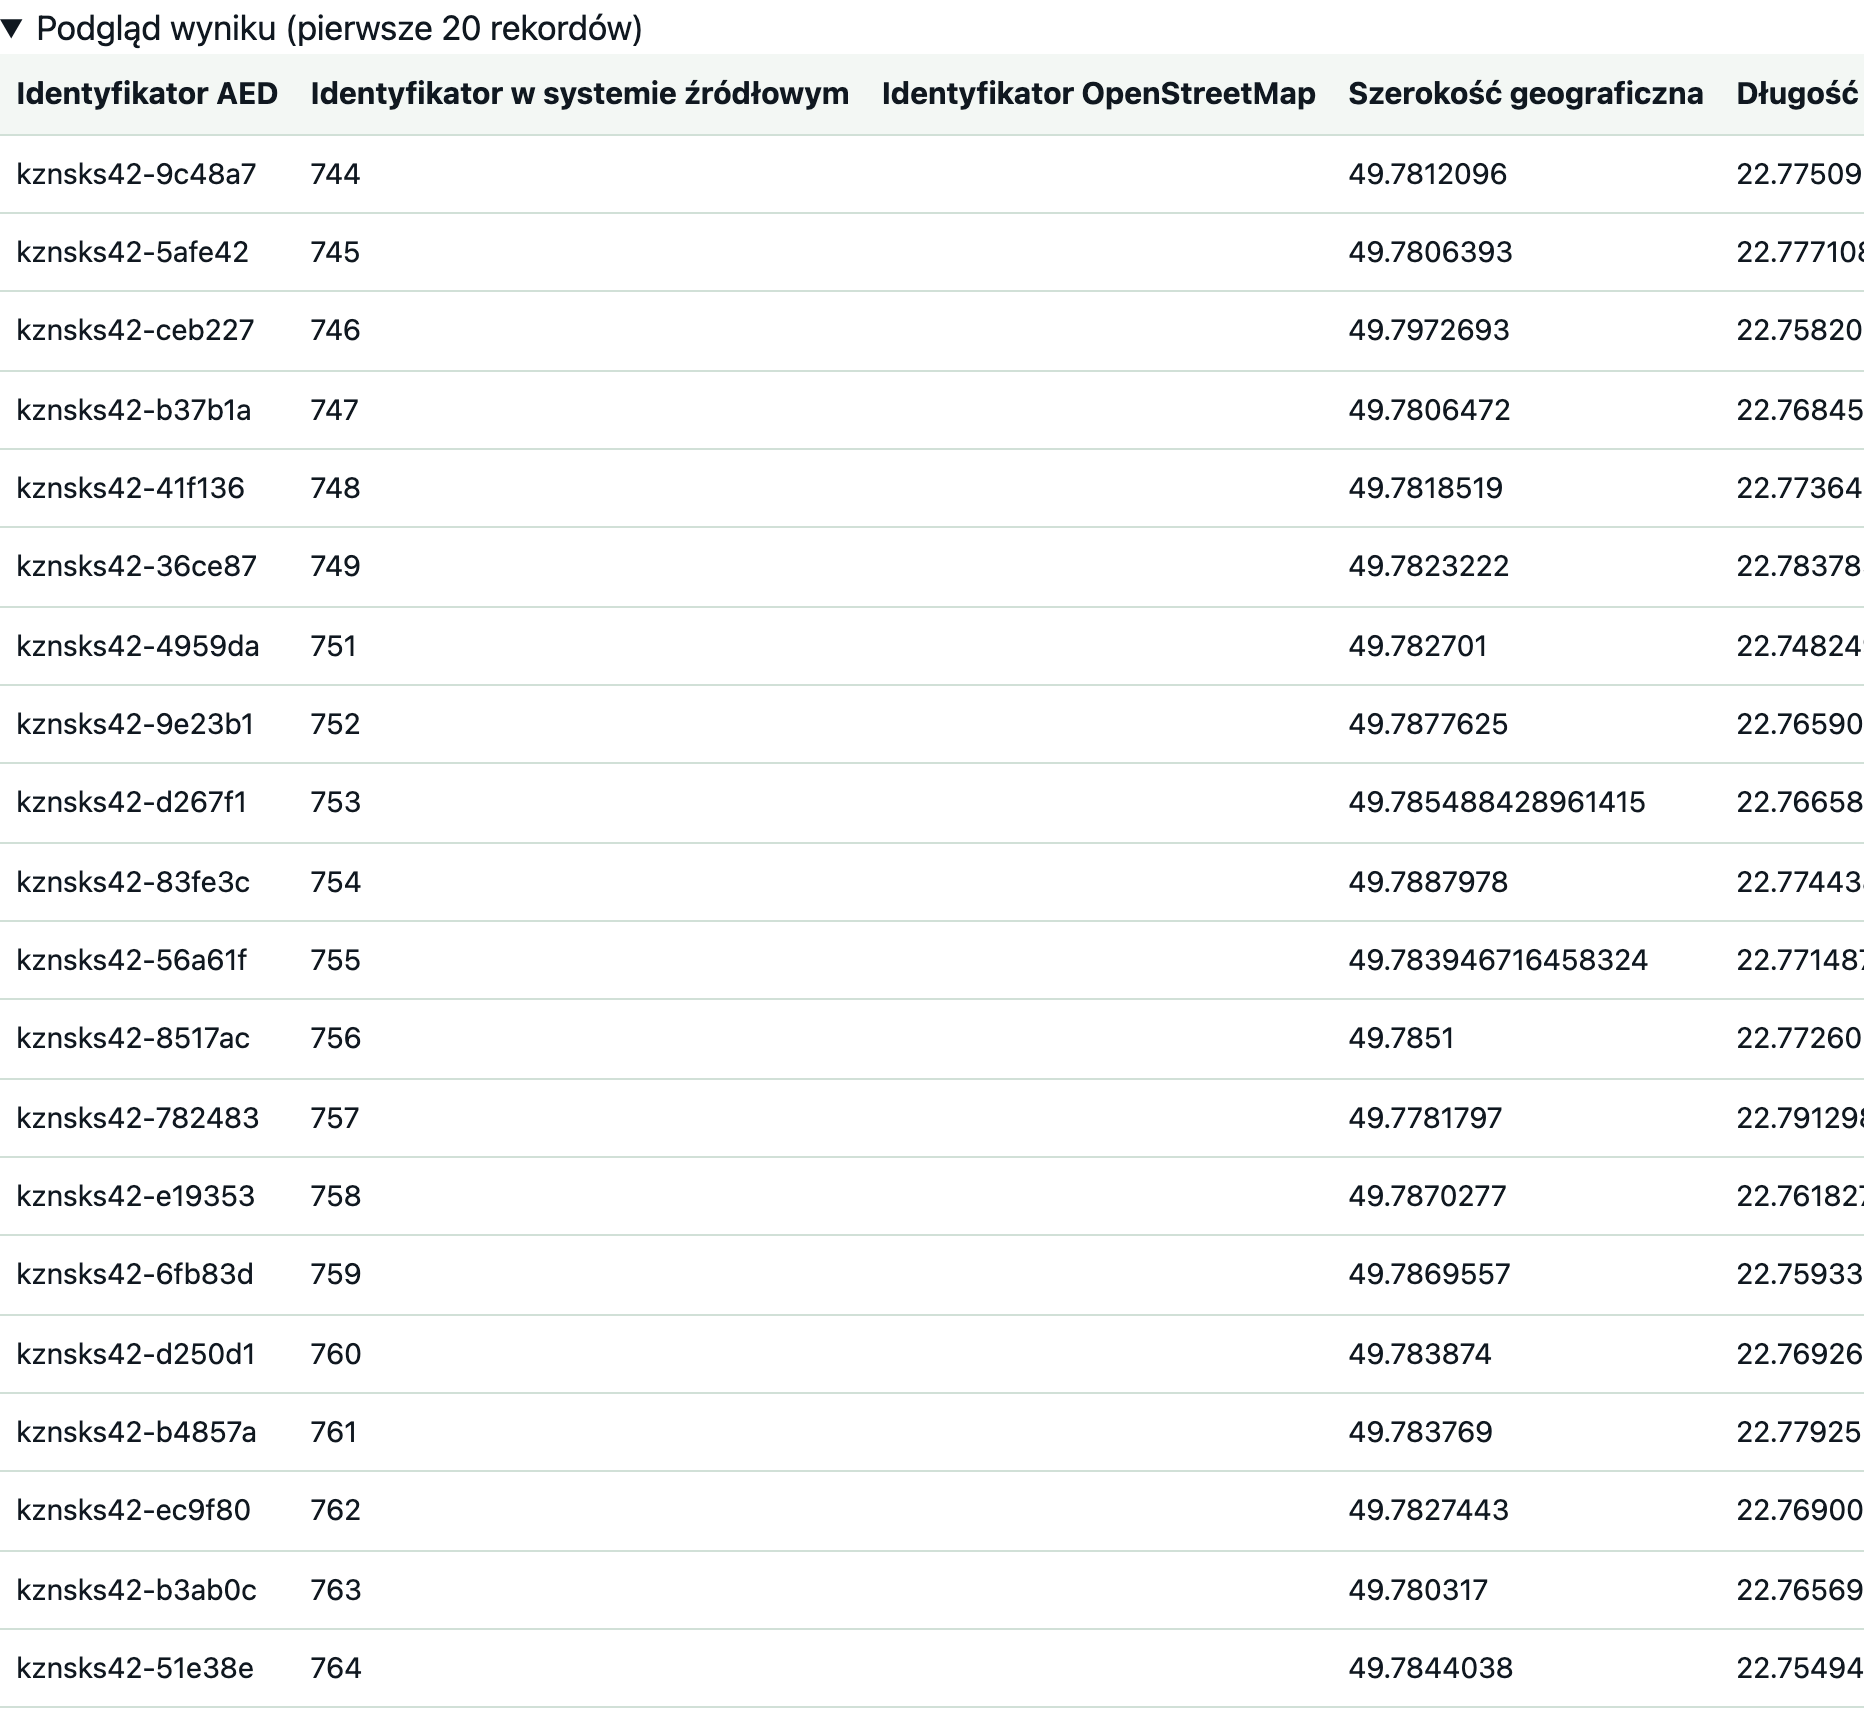
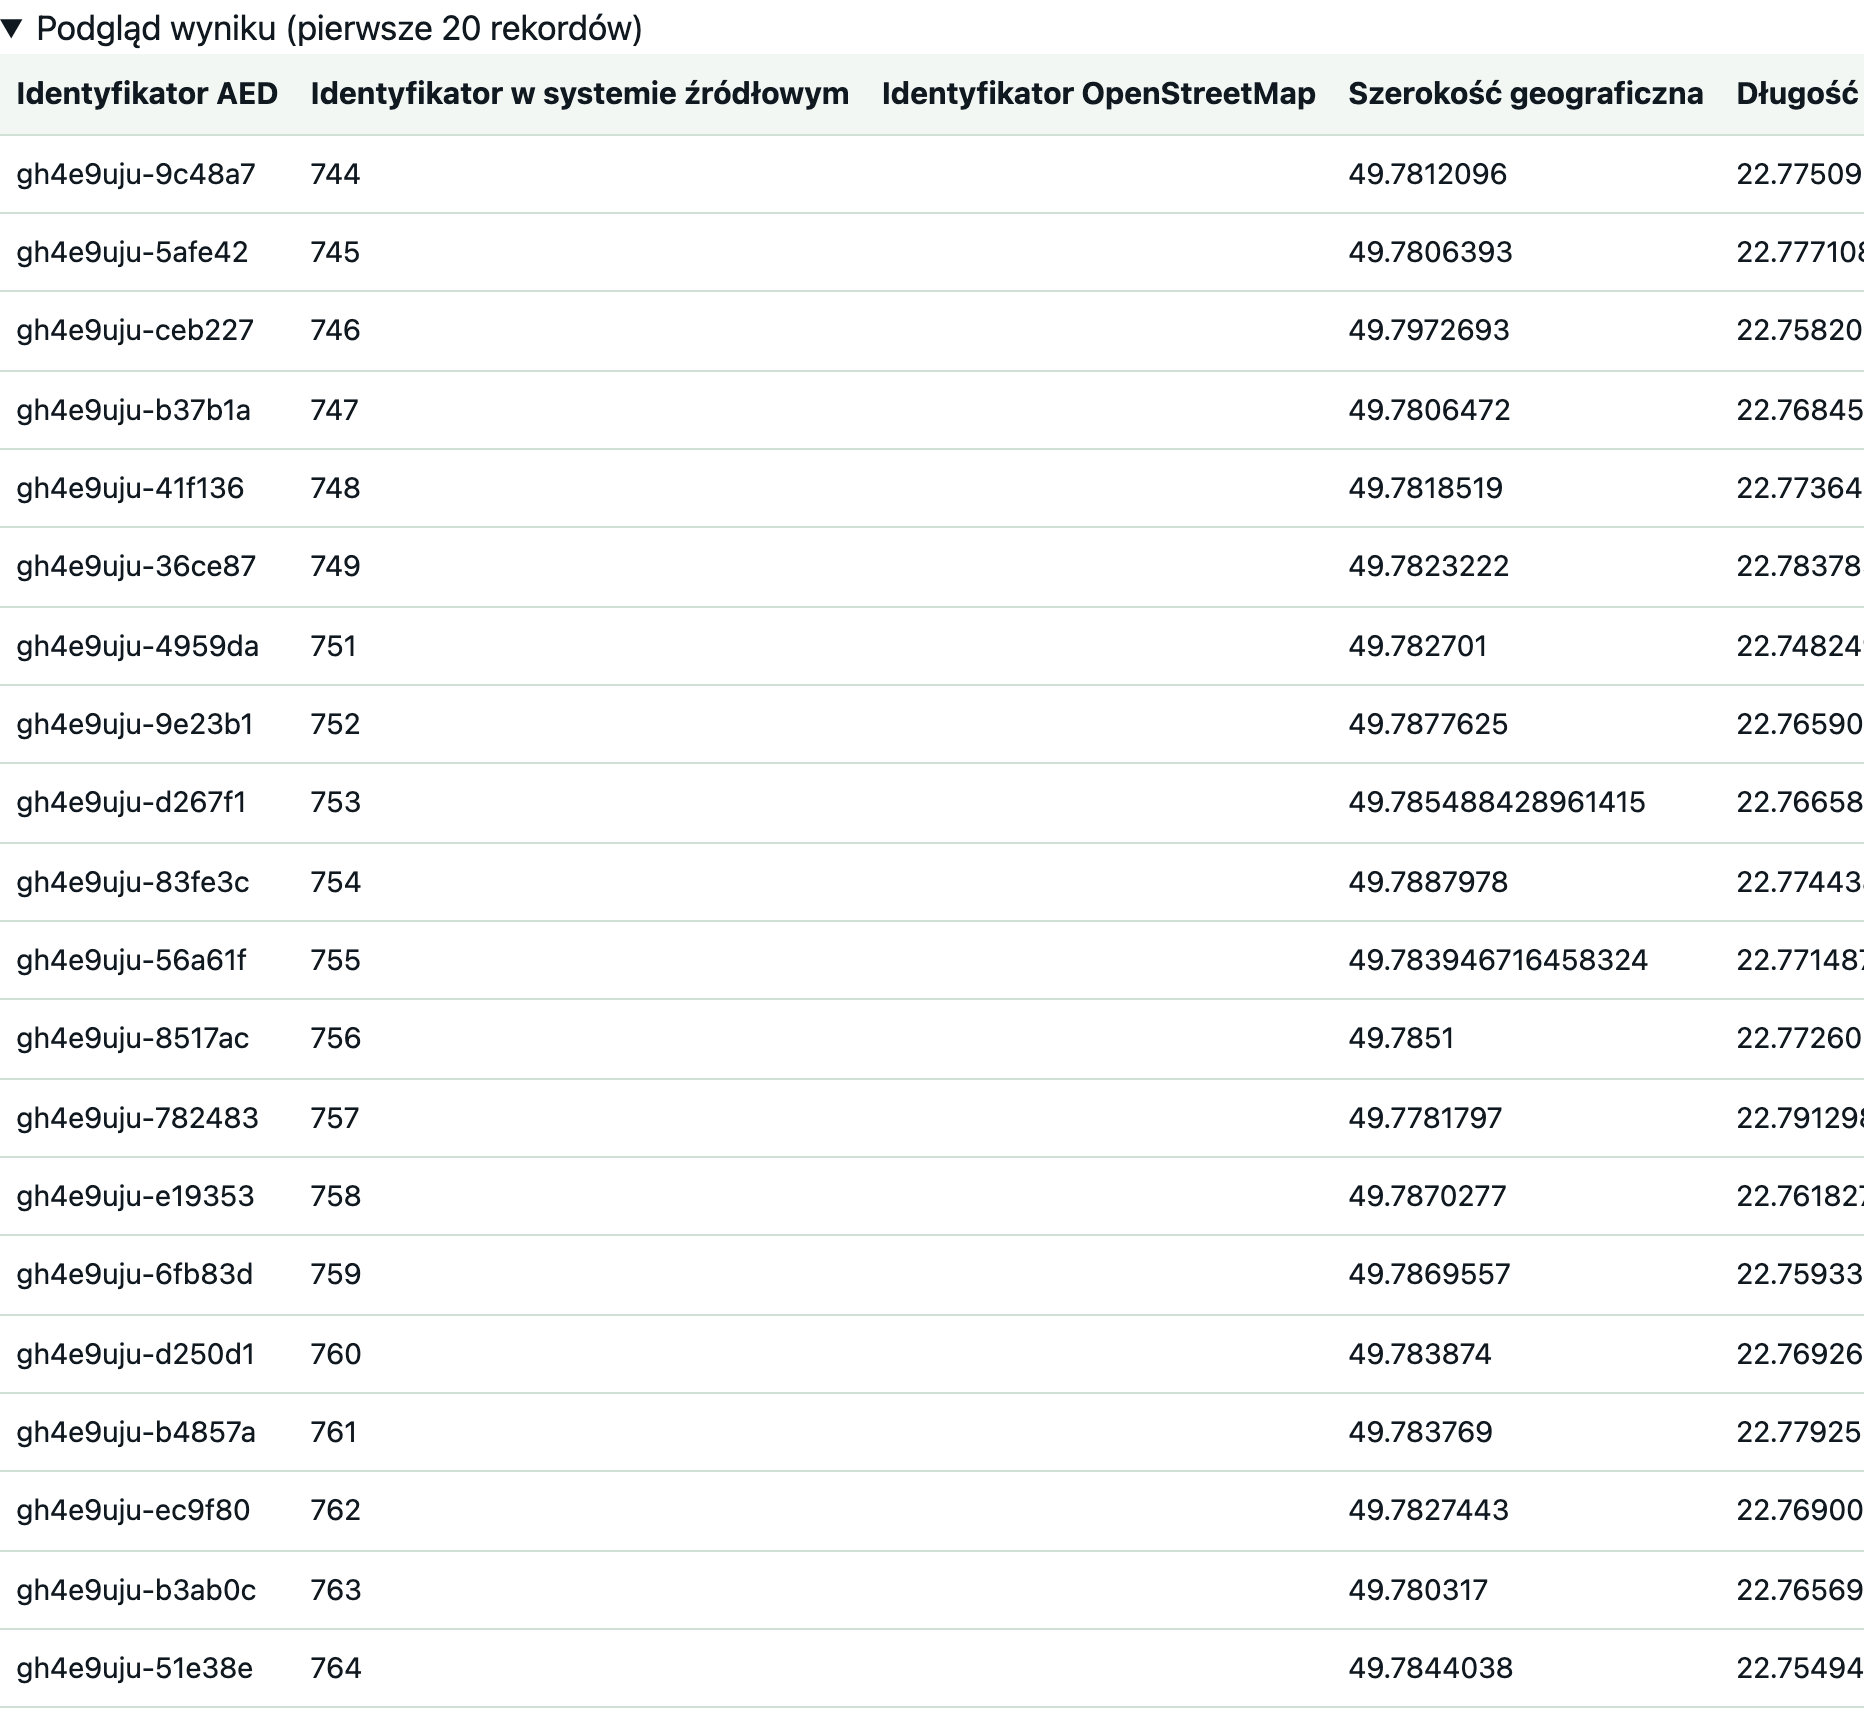
E1: zrzuty kreatora po poprawkach B (CSVW titles) i C (tabela mapowania), DOWOD-URL 21/21 dla kznsks42, lista zbiorów demo

diff --git a/prezentacja/zrzuty/DOWOD-URL.md b/prezentacja/zrzuty/DOWOD-URL.md
@@ -1,11 +1,11 @@
 # Dowód: plik pod stałym URL pobierany tak jak przez dane.gov.pl
 
-Wygenerowane przez `prezentacja/zrzuty/sprawdz_url.py` (2026-11-22 00:17 UTC). Zbiór demo z dysponentem „Urząd Miejski w Przemyślu (demo)”, opublikowany przez `zrob_zrzuty.py` z pliku `przemysl_2024.csv`.
+Wygenerowane przez `prezentacja/zrzuty/sprawdz_url.py` (2026-11-22 00:36 UTC). Zbiór demo z dysponentem „Urząd Miejski w Przemyślu (demo)”, opublikowany przez `zrob_zrzuty.py` z pliku `przemysl_2024.csv`.
 
 ## Zapytanie
 
 ```
-curl -sS -D - -A 'Mozilla/5.0 (compatible; harvester-test)' 'http://127.0.0.1:8010/d/b83gbh4x.csv'
+curl -sS -D - -A 'Mozilla/5.0 (compatible; harvester-test)' 'https://tuaed.wkrynski.dev/d/kznsks42.csv'
 ```
 
 Bez ciasteczek, bez logowania i bez tokenu, tak jak harvester portalu przy „Aktualizacji automatycznej”.
@@ -15,22 +15,22 @@ Bez ciasteczek, bez logowania i bez tokenu, tak jak harvester portalu przy „Ak
 ```
 HTTP 200
 content-type: text/csv; charset=utf-8
-content-length: 6804
-content-disposition: inline; filename="aed-b83gbh4x.csv"
+content-disposition: inline; filename="aed-kznsks42.csv"
 access-control-allow-origin: *
-cache-control: no-cache
+cache-control: max-age=14400
+last-modified: Sun, 22 Nov 2026 00:36:10 GMT
 ```
 
 ## Pierwsze wiersze (surowo, `\r\n` na końcu linii)
 
 ```csv
 id_aed,id_zrodlowe,osm_id,szerokosc_geograficzna,dlugosc_geograficzna,dokladnosc_polozenia,nazwa_obiektu,cecha_ulicy,nazwa_ulicy,nr_budynku,nr_lokalu,kod_pocztowy,miejscowosc,kod_terc,kod_simc,kod_ulic,adres_uniwersalny,wewnatrz_budynku,kondygnacja,opis_lokalizacji,zdjecie_url,zdjecie_licencja,dostepnosc,dostepny_24_7,godziny_pn,godziny_wt,godziny_sr,godziny_cz,godziny_pt,godziny_so,godziny_nd,godziny_swieta,zabezpieczenie,instrukcja_dostepu,dostepnosc_wozek,tryb_pediatryczny,status,data_weryfikacji,data_instalacji,data_przegladu,data_waznosci_elektrod_doroslych,data_waznosci_elektrod_pediatrycznych,data_waznosci_baterii,przeglad_co_miesiecy,dysponent_nazwa,dysponent_typ,dysponent_regon,zrodlo_danych,data_aktualizacji,status_walidacji,duplikat_id_aed,uwagi
-b83gbh4x-9c48a7,744,,49.7812096,22.7750936,,Defibrylator (AED 9485) w ADM Centrum,,Juliusza Słowackiego,12,,37-700,Przemyśl,,,,,false,,,,,publiczny,tak,X,X,X,X,X,X,X,X,,,,,nieznany,2026-11-22,,,,,,,Urząd Miejski w Przemyślu,jst,,dysponent,2026-11-22T00:04:20,,,
-b83gbh4x-5afe42,745,,49.7806393,22.7771083,,Defibrylator (AED 9556) w I Liecum Ogólnokształcącym w Przemyślu,,Juliusza Słowackiego,21,,37-700,Przemyśl,,,,,false,,,,,publiczny,tak,X,X,X,X,X,X,X,X,,,,,nieznany,2026-11-22,,,,,,,Urząd Miejski w Przemyślu,jst,,dysponent,2026-11-22T00:04:20,,,
-b83gbh4x-ceb227,746,,49.7972693,22.7582092,,Defibrylator (AED 9579) w Szkole Podstawowej Nr 6 w Przemyślu,,Generała Mieczysława Boruty Spiechowicza,1,,37-700,Przemyśl,,,,,false,,,,,publiczny,tak,X,X,X,X,X,X,X,X,,,,,nieznany,2026-11-22,,,,,,,Urząd Miejski w Przemyślu,jst,,dysponent,2026-11-22T00:04:20,,,
+kznsks42-9c48a7,744,,49.7812096,22.7750936,,Defibrylator (AED 9485) w ADM Centrum,,Juliusza Słowackiego,12,,37-700,Przemyśl,,,,,false,,,,,publiczny,tak,X,X,X,X,X,X,X,X,,,,,nieznany,2026-11-22,,,,,,,Urząd Miejski w Przemyślu (demo),jst,,dysponent,2026-11-22T00:24:38,,,
+kznsks42-5afe42,745,,49.7806393,22.7771083,,Defibrylator (AED 9556) w I Liecum Ogólnokształcącym w Przemyślu,,Juliusza Słowackiego,21,,37-700,Przemyśl,,,,,false,,,,,publiczny,tak,X,X,X,X,X,X,X,X,,,,,nieznany,2026-11-22,,,,,,,Urząd Miejski w Przemyślu (demo),jst,,dysponent,2026-11-22T00:24:38,,,
+kznsks42-ceb227,746,,49.7972693,22.7582092,,Defibrylator (AED 9579) w Szkole Podstawowej Nr 6 w Przemyślu,,Generała Mieczysława Boruty Spiechowicza,1,,37-700,Przemyśl,,,,,false,,,,,publiczny,tak,X,X,X,X,X,X,X,X,,,,,nieznany,2026-11-22,,,,,,,Urząd Miejski w Przemyślu (demo),jst,,dysponent,2026-11-22T00:24:38,,,
 ```
 
-## Walidacja: 20/21
+## Walidacja: 21/21
 
 | | Sprawdzenie |
 |---|---|
@@ -38,7 +38,7 @@ b83gbh4x-ceb227,746,,49.7972693,22.7582092,,Defibrylator (AED 9579) w Szkole Pod
 | ✅ | serwer nie ustawia ciasteczek |
 | ✅ | Content-Type: text/csv; charset=utf-8 |
 | ✅ | CORS `*` (pobranie z przeglądarki, np. mapa w JS) |
-| ✅ | Content-Disposition: inline; filename="aed-b83gbh4x.csv" |
+| ✅ | Content-Disposition: inline; filename="aed-kznsks42.csv" |
 | ✅ | poprawne UTF-8 (dekodowanie ścisłe) |
 | ✅ | bez BOM |
 | ✅ | ostatni wiersz zakończony CRLF |
@@ -46,8 +46,8 @@ b83gbh4x-ceb227,746,,49.7972693,22.7582092,,Defibrylator (AED 9579) w Szkole Pod
 | ✅ | 21 rekordów, każdy ma 52 pól jak nagłówek |
 | ✅ | cudzysłowy tylko tam, gdzie trzeba, `"` podwojone (identyczny zapis RFC 4180) |
 | ✅ | nazwy kolumn unikalne |
-| ✅ | metadane CSVW pod `http://127.0.0.1:8010/d/b83gbh4x.csv-metadata.json` (HTTP 200) |
-| ❌ | `url` w metadanych wskazuje ten plik |
+| ✅ | metadane CSVW pod `https://tuaed.wkrynski.dev/d/kznsks42.csv-metadata.json` (HTTP 200) |
+| ✅ | `url` w metadanych wskazuje ten plik |
 | ✅ | dialekt: UTF-8, przecinek, wiersz nagłówka |
 | ✅ | kolumny w metadanych = nagłówek pliku (52, ta sama kolejność) |
 | ✅ | nagłówek zgodny z `titles` (CSVW §5.5.1, sprawdza to np. csvlint) |

diff --git a/prezentacja/zrzuty/README.md b/prezentacja/zrzuty/README.md
@@ -50,7 +50,7 @@ Dowód zgodności pliku z wymaganiami portalu (nagłówki, RFC 4180, UTF-8, CSVW
 ```bash
 python3 -m venv /tmp/pw && /tmp/pw/bin/pip install playwright && /tmp/pw/bin/playwright install chromium
 /tmp/pw/bin/python prezentacja/zrzuty/zrob_zrzuty.py          # publikuje nowy zbiór „(demo)” i robi 26 PNG
-python3 prezentacja/zrzuty/sprawdz_url.py                      # DOWOD-URL.md dla ostatniego zbioru
+python3 prezentacja/zrzuty/sprawdz_url.py https://tuaed.wkrynski.dev/d/kznsks42.csv   # DOWOD-URL.md
 ```
 
 - Każde uruchomienie `zrob_zrzuty.py` publikuje **nowy** zbiór demo. Slug ostatniego jest w
@@ -63,3 +63,13 @@ python3 prezentacja/zrzuty/sprawdz_url.py                      # DOWOD-URL.md dl
   z adresem i nagłówkami odpowiedzi.
 - Przycisk wyboru pliku ma napis „Choose File”, bo pochodzi z interfejsu Chromium, nie z aplikacji. W polskiej
   przeglądarce będzie „Wybierz plik”.
+
+## Zbiory na publicznym demo
+
+| Slug | Rola | Do posprzątania? |
+|---|---|---|
+| `kznsks42` | Zbiór na prezentację: synchronizacja z `demo-zrodlo` włączona, zrzuty `09-sync-*`, `DOWOD-URL.md` | nie |
+| `gh4e9uju` | Ostatnie uruchomienie `zrob_zrzuty.py` (zrzuty kreatora po poprawkach B i C, `08-csv-w-przegladarce`) | tak, po prezentacji |
+| `cfseuu37`, `r9ba4cvw` | Próbne przebiegi skryptu | tak |
+
+Wszystkie mają dysponenta „Urząd Miejski w Przemyślu (demo)”. Sprzątanie należy do Grzana. Skrypty niczego nie usuwają.
